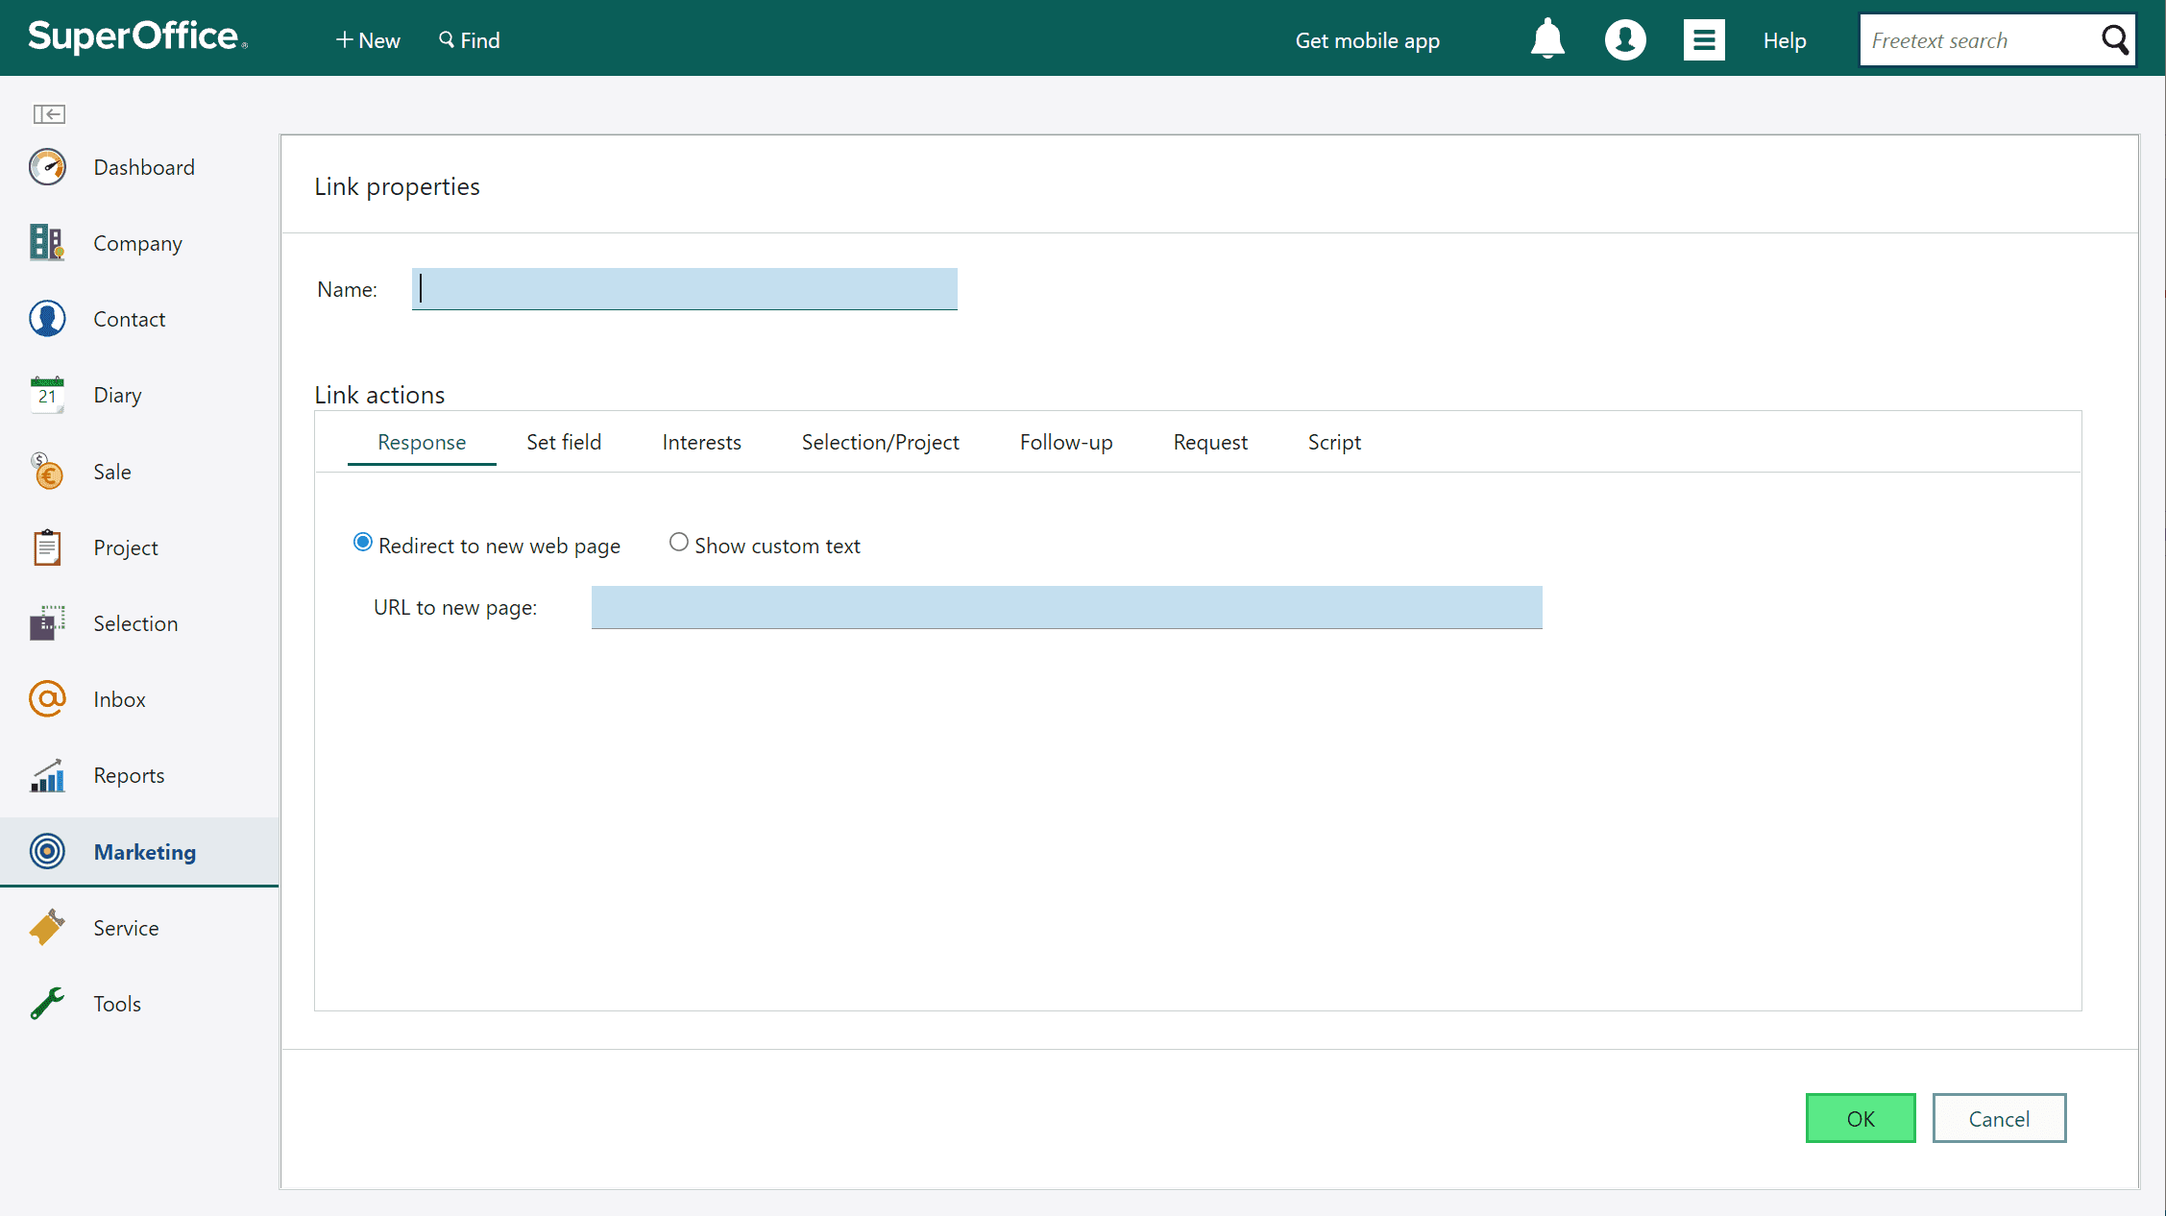
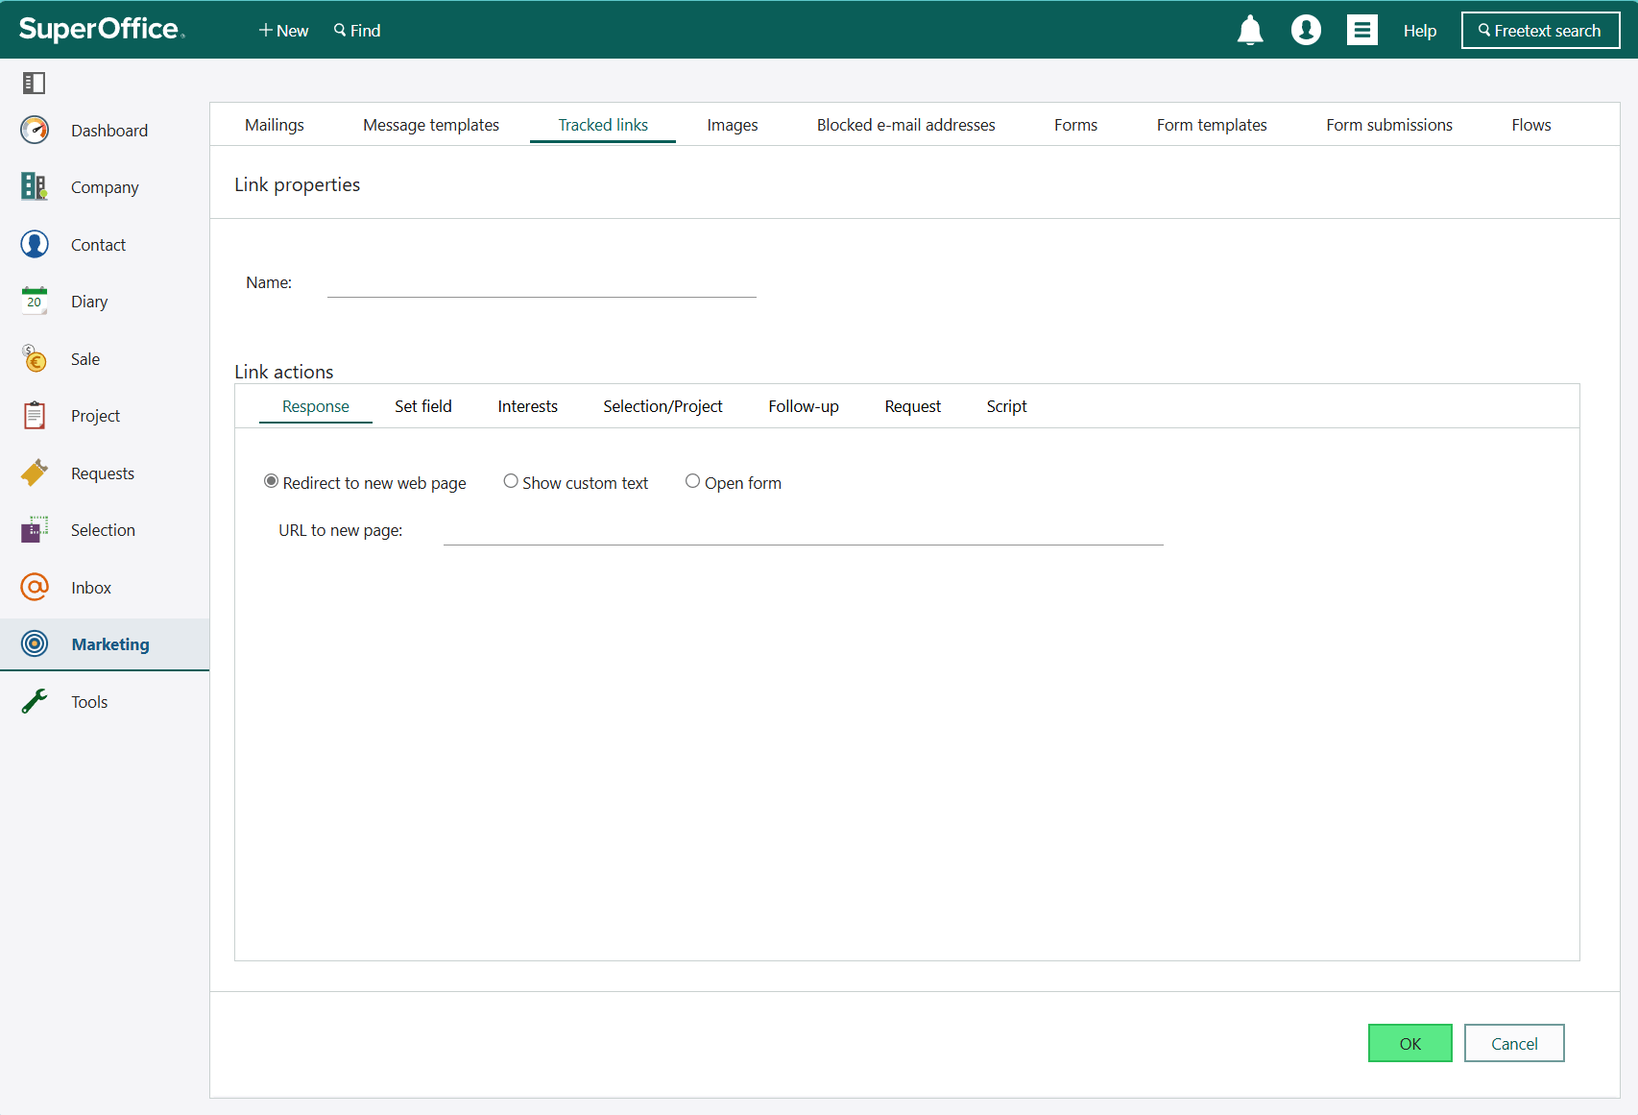
#1507 Add 'open form' track link response

diff --git a/docs/de/marketing/tracked-links/learn/define-link-actions.md b/docs/de/marketing/tracked-links/learn/define-link-actions.md
@@ -4,12 +4,12 @@ title: Automatisierte Linkaktionen definieren
 description: In dieser Anleitung lernen Sie, wie Sie Links in Kampagnen verwenden, um Aktionen zu automatisieren.
 keywords: Marketing, Kampagne, Aussendung, Überwachte Links, Linkaktion, automatisieren
 author: Bergfrid Dias
-date: 05.31.2024
-version: 10.3.5
+date: 11.19.2024
+version: 10.3.12
 topic: howto
-language: de
 audience: person
 audience_tooltip: SuperOffice Marketing
+language: de
 ---
 
 # Automatisierte Linkaktionen definieren
@@ -37,7 +37,7 @@ Je nach Ziel und Handlungsaufforderung Ihrer Kampagne können Sie Ihre Datenbank
 
 | Registerkarte | Aktion |
 |---|---|
-| [Antwort](#response) | Zielseite oder benutzerdefinierten Text hinzufügen. |
+| [Antwort](#response) | Zielseite oder benutzerdefinierten Text hinzufügen, oder ein Formular öffnen. |
 | [Feld festlegen](#set-field) | Einem [Zusatzfeld][5] einen Wert für die Personen des Kunden hinzufügen |
 | [Interessen](#interests) | Interessen aktualisieren. |
 | [Selektion/Projekt](#selection) | Ansprechpartner zu Selektion oder Projekt hinzufügen bzw. daraus entfernen. |
@@ -46,7 +46,7 @@ Je nach Ziel und Handlungsaufforderung Ihrer Kampagne können Sie Ihre Datenbank
 | [Skript](#script) | Ein Skript ausführen. |
 
 > [!TIP]
-> Wenn Sie einen überwachte Link aktualisieren, denken Sie daran, dass er von mehreren Kampagnen und/oder automatisierten Flows verwendet werden kann. Stellen Sie sicher, dass es keine duplizierten oder widersprüchlichen Aktionen gibt.
+> Wenn Sie einen überwachten Link aktualisieren, denken Sie daran, dass er von mehreren Kampagnen und/oder automatisierten Flows verwendet werden kann. Stellen Sie sicher, dass es keine duplizierten oder widersprüchlichen Aktionen gibt.
 
 ## <a id="response"></a>Antwort
 
@@ -54,6 +54,7 @@ Wählen Sie aus, was passieren soll, wenn der Empfänger auf den Link klickt.
 
 * **Auf neue Webseite umleiten**: Geben Sie die URL im vorgesehenen Feld ein.
 * Oder, **Benutzerdefinierten Text anzeigen**: Geben Sie den anzuzeigenden Text ein. Klicken Sie auf das Bearbeitungssymbol ![Symbol][img4], um die Rich-Text-Toolbar anzuzeigen.
+* Oder, **Formular öffnen**: Wählen Sie den Namen des Formulars. Optional wählen Sie, welche Felder mit bekannten Kontaktdaten vorausgefüllt werden sollen.
 
 ## <a id="set-field"></a>Feld festlegen
 

diff --git a/docs/de/marketing/editor/learn/add-tracked-link-to-msg.md b/docs/de/marketing/editor/learn/add-tracked-link-to-msg.md
@@ -4,12 +4,12 @@ title: "Links einfügen, die Sie überwachen möchten"
 description: "Es gibt zwei Möglichkeiten, Ihre Links einzurichten. Sie können entweder einen voreingestellten nachverfolgten Link verwenden, um Klicks über mehrere Kampagnen nachzuverfolgen, oder einen neuen Link einrichten, der nur in dieser Kampagne verfügbar ist. In dieser Anleitung lernen Sie, wie Sie einen überwachten Link hinzufügen."
 keywords: Marketing
 author: SuperOffice RnD
-date: 02.27.2024
-version: 10
+date: 11.19.2024
+version: 10.3.12
 topic: howto
-language: de
 audience: person
 audience_tooltip: SuperOffice Marketing
+language: de
 ---
 
 # Überwachte Links zu einer Mitteilung hinzufügen
@@ -39,7 +39,7 @@ Durch das Einrichten von Links, die Leser zu verschiedenen Inhalten auf Ihrer We
 
 Sie können reguläre (nicht überwachte) Links hinzufügen. Für Textlinks klicken Sie auf ![Symbol][img1] in der Werkzeugleiste. Für Bildlinks verwenden Sie das Feld **Bild-URL** in der Seitenleiste.
 
-Wenn Sie später feststellen, diese Links ebenfalls überwachen, wählen Sie die Option **Alle Links überwachen** unter **überwachen** im Schritt 1: Einstellungen. Diese Links werden jedoch nur für die entsprechende Kampagne überwacht und sind nicht für andere Kampagnen verfügbar.
+Wenn Sie später feststellen, diese Links ebenfalls überwachen, wählen Sie die Option **Alle Links überwachen** unter **überwachen** im Schritt 1: Einstellungen. Diese Links werden jedoch nur für die entsprechende Kampagne überwacht und sind nicht für andere Kampagnen verfügbar oder in Flows.
 
 ## Verwandte Themen
 

diff --git a/docs/nl/marketing/editor/learn/add-tracked-link-to-msg.md b/docs/nl/marketing/editor/learn/add-tracked-link-to-msg.md
@@ -4,12 +4,12 @@ title: Links opnemen die u wilt traceren
 description: Er zijn twee manieren om uw links in te stellen. U kunt een vooraf ingestelde bijgehouden koppeling gebruiken om klikken in verschillende mailings bij te houden of een nieuwe koppeling instellen die alleen beschikbaar is in deze mailing. Meer informatie over het toevoegen van een bijgehouden koppeling vindt u in deze handleiding.
 keywords: Marketing, mailing, gevolgde koppelingen
 author: SuperOffice RnD
-date: 02.27.2024
-version: 10
+date: 11.19.2024
+version: 10.3.12
 topic: howto
-language: nl
 audience: person
 audience_tooltip: SuperOffice Marketing
+language: nl
 ---
 
 # Gevolgde koppelingen toevoegen aan een bericht
@@ -39,7 +39,7 @@ Door koppelingen in te stellen die lezers naar verschillende inhoud op uw websit
 
 U kunt gewone (niet-gevolgde) links toevoegen. Voor tekstkoppelingen klikt u op ![pictogram][img1] in de werkbalk. Voor afbeeldingskoppelingen gebruikt u het veld **Afbeeldings-URL** in het zijpaneel.
 
-Als u later besluit deze koppelingen ook te volgen, selecteert u de optie **Alle koppelingen traceren** onder **Traceren** in Stap 1: Instellingen. Deze koppelingen worden echter alleen gevolgd voor de betreffende mailing en zijn niet beschikbaar voor andere mailings.
+Als u later besluit deze koppelingen ook te volgen, selecteert u de optie **Alle koppelingen traceren** onder **Traceren** in Stap 1: Instellingen. Deze koppelingen worden echter alleen gevolgd voor de betreffende mailing en zijn niet beschikbaar voor andere mailings of in flows.
 
 ## Verwante onderwerpen
 

diff --git a/docs/nl/marketing/tracked-links/learn/define-link-actions.md b/docs/nl/marketing/tracked-links/learn/define-link-actions.md
@@ -4,12 +4,12 @@ title: Geautomatiseerde linkacties definiëren
 description: In deze handleiding leert u hoe u links in mailings kunt gebruiken om acties te automatiseren.
 keywords: Marketing, koppelingen, mailing, gevolgde links
 author: Bergfrid Dias
-date: 06.17.2024
-version: 10.3.5
+date: 11.19.2024
+version: 10.3.12
 topic: howto
-language: nl
 audience: person
 audience_tooltip: SuperOffice Marketing
+language: nl
 ---
 
 # Geautomatiseerde linkacties definiëren
@@ -37,7 +37,7 @@ Afhankelijk van het doel en de CTA van uw mailing kunt u uw database bijwerken. 
 
 | Tabblad | Actie |
 |---|---|
-| [Respons](#response) | voeg een openingspagina of aangepaste tekst toe. |
+| [Respons](#response) | voeg een openingspagina of aangepaste tekst toe, of een formulier openen. |
 | [Veld instellen](#set-field) | voeg een waarde toe aan een [extra veld][5] voor personen |
 | [Interesses](#interests) | werk de interesses bij. |
 | [Selectie/project](#selection) | Persoon toevoegen aan/verwijderen uit een selectie of project. |
@@ -54,6 +54,7 @@ Selecteer wat er moet gebeuren wanneer de ontvanger op de link klikt.
 
 * **Omleiden naar nieuwe webpagina**: Voer de URL in het daarvoor bestemde veld in.
 * Of, **Aangepaste tekst weergeven**: Voer de tekst in die moet worden weergegeven. Klik op bewerkingssymbool ![pictogram][img4] om de rich-text toolbar te tonen.
+* Of, **Formulier openen**: Selecteer de naam van het formulier. Kies eventueel welke velden vooraf ingevuld moeten worden met bekende contactgegevens.
 
 ## <a id="set-field"></a>Veld instellen
 

diff --git a/docs/sv/marketing/tracked-links/learn/define-link-actions.md b/docs/sv/marketing/tracked-links/learn/define-link-actions.md
@@ -4,12 +4,12 @@ title: Definiera länkningsåtgärder
 description: I den här guiden lär du dig hur du använder länkar i utskick för att automatisera åtgärder.
 keywords: Marknadsföring, utskikt, länkåtgärd, automatisera
 author: Bergfrid Dias
-date: 06.14.2024
-version: 10.3.5
+date: 11.19.2024
+version: 10.3.12
 topic: howto
-language: sv
 audience: person
 audience_tooltip: SuperOffice Marketing
+language: sv
 ---
 
 # Använd länkar för att automatisera olika åtgärder
@@ -37,7 +37,7 @@ Baserat på din utskicks mål och CTAkan du uppdatera din databas. Denna informa
 
 | Flik | Åtgärd |
 |---|---|
-| [Svar](#response) | Lägg till landningssida eller återkopplingstext. |
+| [Svar](#response) | Lägg till landningssida eller återkopplingstext, eller öppna ett formulär. |
 | [Konfigurera fält](#set-field) | Lägg till ett värde till ett [extrafält][5] för kundkontakter |
 | [Intressen](#interests) | Uppdatera intressen. |
 | [Urval/projekt](#selection) | Lägga till eller ta bort kontakt från urval eller projekt. |
@@ -54,6 +54,7 @@ Välj vad som ska hända när mottagaren klickar på länken.
 
 * **Dirigera om till ny webbplatsa**: Ange URL:en i det angivna fältet.
 * Eller, **Visa återkopplingstext**: Ange texten som ska visas. Klicka på ![ikonen][img4] redigeringsknappen för att visa verktygsfältet för rik text.
+* Eller, **Öppna formulär**: Välj namnet på formuläret. Välj eventuellt vilka fält som ska förifyllas med kända kontaktuppgifter.
 
 ## <a id="set-field"></a>Konfigurera fält
 

diff --git a/docs/da/marketing/editor/learn/add-tracked-link-to-msg.md b/docs/da/marketing/editor/learn/add-tracked-link-to-msg.md
@@ -4,12 +4,12 @@ title: Indsætte sporede links i en meddelelse
 description: "Du kan konfigurere dine links på to måder. Du kan enten bruge et forudindstillet sporet link til at spore klik på tværs af flere udsendelser eller du kan oprette et nyt link, der kun er tilgængeligt i denne udsendelse. I denne vejledning får du flere oplysninger om, hvordan du tilføjer et sporet link."
 keywords: Marketing, mailudsendelse
 author: SuperOffice RnD
-date: 02.26.2024
-version: 10
+date: 11.19.2024
+version: 10.3.12
 topic: howto
-language: da
 audience: person
 audience_tooltip: SuperOffice Marketing
+language: da
 ---
 
 # Indsætte sporede links i en meddelelse
@@ -39,7 +39,7 @@ Ved at oprette links, der leder læserne til forskelligt indhold på dit websted
 
 Du kan tilføje almindelige (ikke-sporede) links. For tekstlinks skal du klikke på ![ikonet][img1] i værktøjslinjen. For billedlinks skal du bruge feltet **Billede-URL** i sidepanelet.
 
-Hvis du senere beslutter dig for også at spore disse links, skal du vælge indstillingen **Spor alle links** under **Sporing** i Trin 1: Indstillinger. Disse links overvåges dog kun for den pågældende udsendelse og vil ikke være tilgængelige for andre udsendelser.
+Hvis du senere beslutter dig for også at spore disse links, skal du vælge indstillingen **Spor alle links** under **Sporing** i Trin 1: Indstillinger. Disse links overvåges dog kun for den pågældende udsendelse og vil ikke være tilgængelige for andre udsendelser eller i flows.
 
 ## Relaterede emner
 

diff --git a/docs/da/marketing/tracked-links/learn/define-link-actions.md b/docs/da/marketing/tracked-links/learn/define-link-actions.md
@@ -4,12 +4,12 @@ title: Definer automatiserede linkhandlinger
 description: "I denne vejledning lærer du, hvordan du bruger links i udsendelser til at automatisere handlinger."
 keywords: Marketing, udsendelse, linkhandling, automatisere
 author: Bergfrid Dias
-date: 06.14.2024
-version: 10.3.5
+date: 11.19.2024
+version: 10.3.12
 topic: concept
-language: da
 audience: person
 audience_tooltip: SuperOffice Marketing
+language: da
 ---
 
 # Definer automatiserede linkhandlinger
@@ -37,7 +37,7 @@ Baseret på din udsendelses mål og call-to-action kan du opdatere din database.
 
 | Fane | Handling |
 |---|---|
-| [Respons](#response) | Tilføje landingsside eller standardtekst |
+| [Respons](#response) | Tilføje landingsside eller standardtekst, eller åbne en formular. |
 | [Indstille felt](#set-field) | Tilføje en værdi til et [ekstrafelt][5] for kundekontakter |
 | [Interesser](#interests) | Opdatere interesser |
 | [Udtræk/projekt](#selection) | Tilføje/fjerne person fra et udtræk eller projekt |
@@ -54,6 +54,7 @@ Vælg, hvad der skal ske, når modtageren klikker på linket.
 
 * **Omdirigere til ny webside**: Indtast webadressen i det angivne felt.
 * Eller, **Vise tilpasset tekst**: Indtast teksten, der skal vises. Klik på ![ikon][img4] redigeringsknappen for at vise værktøjslinjen til formateret tekst.
+* Eller, **Åbn formular**: Vælg navnet på formularen. Vælg eventuelt hvilke felter, der skal forudfyldes med kendte kontaktoplysninger.
 
 ## <a id="set-field"></a>Indstille felt
 

diff --git a/docs/sv/marketing/editor/learn/add-tracked-link-to-msg.md b/docs/sv/marketing/editor/learn/add-tracked-link-to-msg.md
@@ -4,12 +4,12 @@ title: Inkludera länkar som du vill kunna spåra
 description: Det finns två sätt att konfigurera dina länkar. Du kan antingen använda en förinställd spårad länk för att spåra klick från flera utskick eller skapa en ny länk som bara är tillgänglig i detta utskick. Läs om hur du lägger till en spårad länk i den här guiden.
 keywords: Marknadsföring
 author: SuperOffice RnD
-date: 02.09.2024
-version: 10
+date: 11.19.2024
+version: 10.3.12
 topic: howto
-language: sv
 audience: person
 audience_tooltip: SuperOffice Marketing
+language: sv
 ---
 
 # Lägga till spårade länkar i meddelandet
@@ -39,7 +39,7 @@ Genom att konfigurera länkar som leder läsare till olika innehåll på din web
 
 Du kan lägga till vanliga (ospårade) länkar. För textlänkar, klicka på ![ikonen][img1] i verktygsfältet. För bildlänkar, använd fältet **Bild-URL** i sidopanelen.
 
-Om du senare beslutar dig för att också spåra dessa länkar, välj alternativet **Spåra alla länkar** under **Spårning** i Steg 1: Konfiguration. Dessa länkar spåras dock endast för det aktuella utskicket och kommer inte att vara tillgängliga för andra utskick.
+Om du senare beslutar dig för att också spåra dessa länkar, välj alternativet **Spåra alla länkar** under **Spårning** i Steg 1: Konfiguration. Dessa länkar spåras dock endast för det aktuella utskicket och kommer inte att vara tillgängliga för andra utskick eller i flöden.
 
 ## Relaterade ämnen
 

diff --git a/docs/no/marketing/tracked-links/learn/define-link-actions.md b/docs/no/marketing/tracked-links/learn/define-link-actions.md
@@ -4,12 +4,12 @@ title: Definere automatiske koblingshandlinger
 description: I denne veiledningen lærer du hvordan du bruker koblinger i utsendelser til å automatisere handlinger.
 keywords: Markedsføring
 author: Bergfrid Dias
-date: 05.24.2024
-version: 10.3.5
+date: 11.19.2024
+version: 10.3.12
 topic: howto
-language: no
 audience: person
 audience_tooltip: SuperOffice Marketing
+language: no
 ---
 
 # Definer automatiske koblinghandlinger
@@ -37,7 +37,7 @@ Basert på målet og oppfordringen til handling i e-posten din, kan du oppdatere
 
 | Fane | Handling |
 |---|---|
-| [Respons](#response) | Legg til landingsside eller tilpasset tekst. |
+| [Respons](#response) | Legg til landingsside eller tilpasset tekst, eller åpne et skjema. |
 | [Angi felt](#set-field) | Legg til en verdi i et [ekstrafelt][5] for kundekontakter |
 | [Interesser](#interests) | Oppdater interesser. |
 | [Utvalg/prosjekt](#selection) | Legg til/fjern kundekontakt fra et utvalg eller prosjekt. |
@@ -54,6 +54,7 @@ Velg hva som skal skje når mottakeren klikker på koblingen.
 
 * **Omdirigere til ny webside**: Skriv inn URL-en i det angitte feltet.
 * Eller, **Vis tilpasset tekst**: Skriv inn teksten som skal vises. Klikk på ![ikon][img4] redigeringsknappen for å vise verktøylinjen for rik tekst.
+* Eller, **Åpne skjema**: Velg navnet på skjemaet. Eventuelt, velg hvilke felter som skal forhåndsutfylles med kjente kontaktopplysninger.
 
 ## <a id="set-field"></a>Angi felt
 

diff --git a/docs/no/marketing/editor/learn/add-tracked-link-to-msg.md b/docs/no/marketing/editor/learn/add-tracked-link-to-msg.md
@@ -4,12 +4,12 @@ title: Inkludere koblinger du vil spore
 description: Finn ut hvordan du legger til en sporet kobling i denne veiledningen. Du kan enten bruke en forhåndsinnstilt sporet kobling til å spore klikk på tvers av flere utsendelser, eller konfigurere en ny kobling som bare er tilgjengelig i denne utsendelsen.
 keywords: Markedsføring, utsendelse, sporede koblinger, 
 author: SuperOffice RnD
-date: 02.22.2024
-version: 10
+date: 11.19.2024
+version: 10.3.12
 topic: howto
-language: no
 audience: person
 audience_tooltip: SuperOffice Marketing
+language: no
 ---
 
 # Legge til sporede koblinger i meldinger
@@ -39,7 +39,7 @@ Ved å sette opp koblinger som leder leserne til forskjellig innhold på webside
 
 Du kan legge til vanlige (ikke-sporbare) koblinger. For tekstkoblinger, klikk på ![ikonet][img1] i verktøylinjen. For bilde-koblinger, bruk feltet **Bilde-URL** i sidepanelet.
 
-Hvis du senere bestemmer deg for å spore disse lenkene også, velg alternativet **Spor alle koblinger** under **Sporing** i Trinn 1: Oppsett. Disse lenkene spores imidlertid bare for den aktuelle utsendelsen og vil ikke være tilgjengelige for andre utsendelser.
+Hvis du senere bestemmer deg for å spore disse lenkene også, velg alternativet **Spor alle koblinger** under **Sporing** i Trinn 1: Oppsett. Disse lenkene spores imidlertid bare for den aktuelle utsendelsen og vil ikke være tilgjengelige for andre utsendelser eller i flyter.
 
 ## Aktuelle emner
 

diff --git a/docs/en/marketing/tracked-links/learn/define-link-actions.md b/docs/en/marketing/tracked-links/learn/define-link-actions.md
@@ -4,12 +4,12 @@ title: Define automatic link actions
 description: In this how-to guide, you will learn how to use links in mailings to automate actions.
 keywords: Marketing, mailing, link action, tracked link, call-to-action
 author: Bergfrid Dias
-date: 04.18.2024
-version: 10.3.5
+date: 11.19.2024
+version: 10.3.12
 topic: howto
-language: en
 audience: person
 audience_tooltip: SuperOffice Marketing
+language: en
 ---
 
 # Define automatic link actions
@@ -37,7 +37,7 @@ Based on your mailing's goal and call-to-action, you can update your database. T
 
 | Tab | Action |
 |---|---|
-| [Response](#response) | Add landing page or custom text. |
+| [Response](#response) | Add landing page or custom text, or open a form. |
 | [Set field](#set-field) | Add a value to an [extrafield][5] for customer contacts. |
 | [Interests](#interests) | Update interests. |
 | [Selection/Project](#selection) | Add/remove customer contact from a selection or project. |
@@ -54,6 +54,7 @@ Select what should happen when the recipient clicks the link.
 
 * **Redirect to new web page**: Enter the URL in the provided field.
 * Or, **Show custom text**: Enter the text to display. Click the ![icon][img4] editor button to show the rich-text toolbar.
+* Or, **Open form**: Choose the form's name. Optionally, select fields to pre-fill with known contact information.
 
 ## <a id="set-field"></a>Set field
 

diff --git a/docs/en/marketing/editor/learn/add-tracked-link-to-msg.md b/docs/en/marketing/editor/learn/add-tracked-link-to-msg.md
@@ -4,12 +4,12 @@ title: Add tracked links to message
 description: Learn how to add a tracked link to a mailing. Either use a preset tracked link to track clicks across several mailings or set up a new link only available in this mailing.
 keywords: Marketing, mailing, tracked link, special link
 author: SuperOffice RnD
-date: 02.19.2024
-version: 10
+date: 11.19.2024
+version: 10.3.12
 topic: howto
-language: en
 audience: person
 audience_tooltip: SuperOffice Marketing
+language: en
 ---
 
 # Add tracked links to message
@@ -38,7 +38,7 @@ By setting up links that direct readers to various content on your website you c
 
 You can add regular (untracked) links. For text links, click ![icon][img1] in the toolbar. For image links, use the **Image URL** field in the side-panel.
 
-If you later decide you want to track these links also, select the **Track all links** option under **Tracking** in Step 1: Setup. However, these links are tracked only for the mailing in question, and will not be available for other mailings.
+If you later decide you want to track these links also, select the **Track all links** option under **Tracking** in Step 1: Setup. However, these links are tracked only for the mailing in question, and will not be available for other mailings or in flows.
 
 ## Related topics
 
